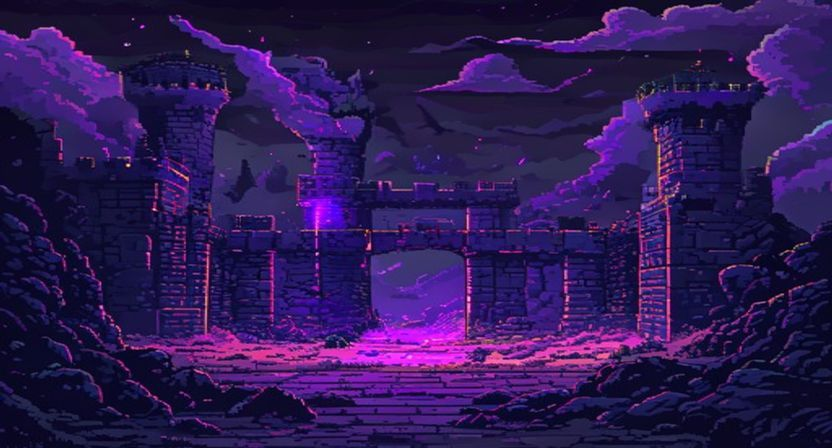
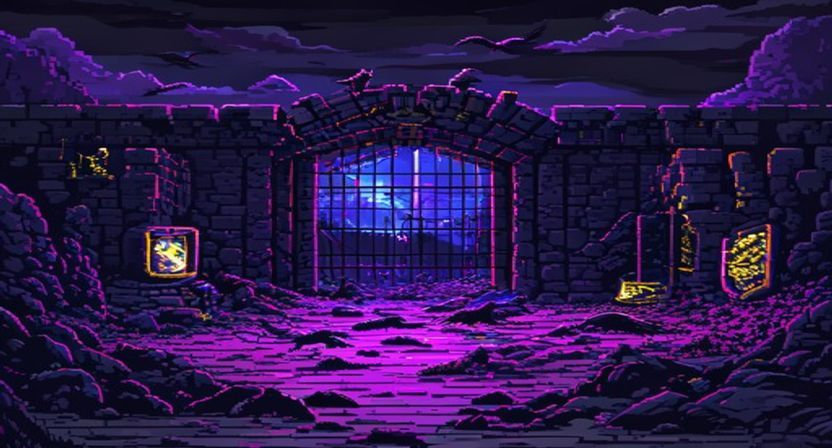
docs: replace demo image with system-design-specific quest scene
New image shows the Rate Limiter quest: iron gate (rate limiter),
golden token buckets on walls, ravens (API requests), neon barrier
(429 Too Many Requests). README caption maps each visual element to
the real system design concept so readers understand the connection.

diff --git a/README.md b/README.md
@@ -13,8 +13,16 @@
 
 ---
 
-![QuestForge Demo — AI-generated pixel-art quest scene](assets/demo-quest.png)
-*AI-generated pixel-art quest scene — created by Pollinations.ai inside the app*
+![QuestForge Demo — Rate Limiter quest scene](assets/demo-quest.png)
+
+> **Quest:** "Design a Rate Limiter for a Public API"
+>
+> The iron gate with barred entry = the **rate limiter** that blocks excess traffic.
+> The glowing golden boxes on the walls = **token buckets** (tokens refill over time; requests consume them).
+> Ravens circling overhead = incoming **API requests** queuing to pass through.
+> The neon purple barrier at the gate = **429 Too Many Requests** — the gatekeeper holds the line.
+>
+> *Every quest generates a unique image like this — tailored to the specific system design challenge you chose.*
 
 ---
 